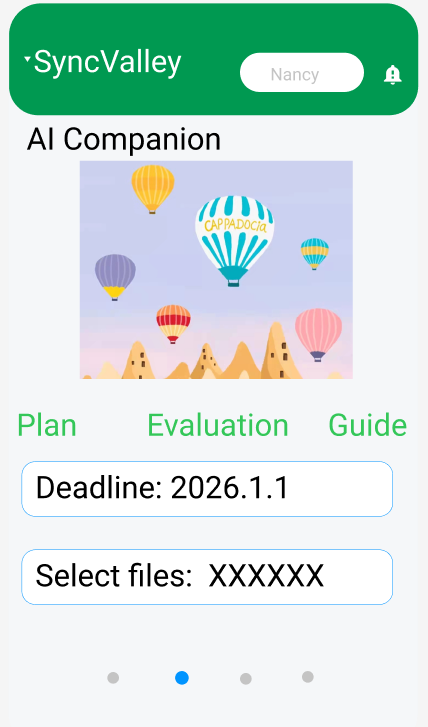
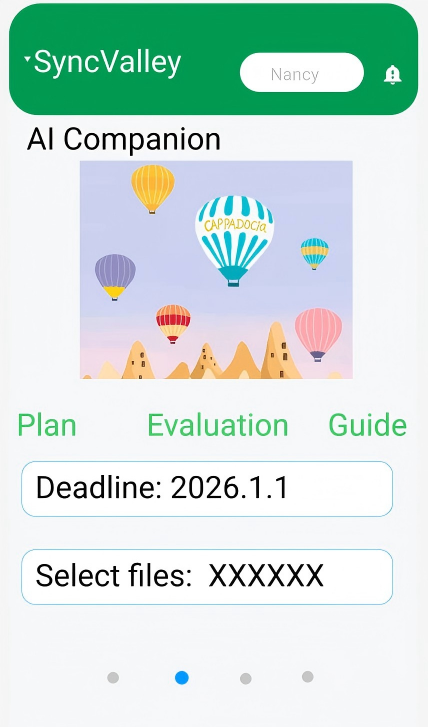
update portfolio final_v4

diff --git a/index.html b/index.html
@@ -1367,7 +1367,7 @@
     ========================== -->
         <footer class="footer">
             <p>
-                SyncValley · Process Portfolio · Human-Centred Design · AI-Supported Group Collaboration Platform
+                SyncValley · Process Portfolio · AI-Supported Group Collaboration Platform · Human-Centric Computing
             </p>
         </footer>
     </main>
